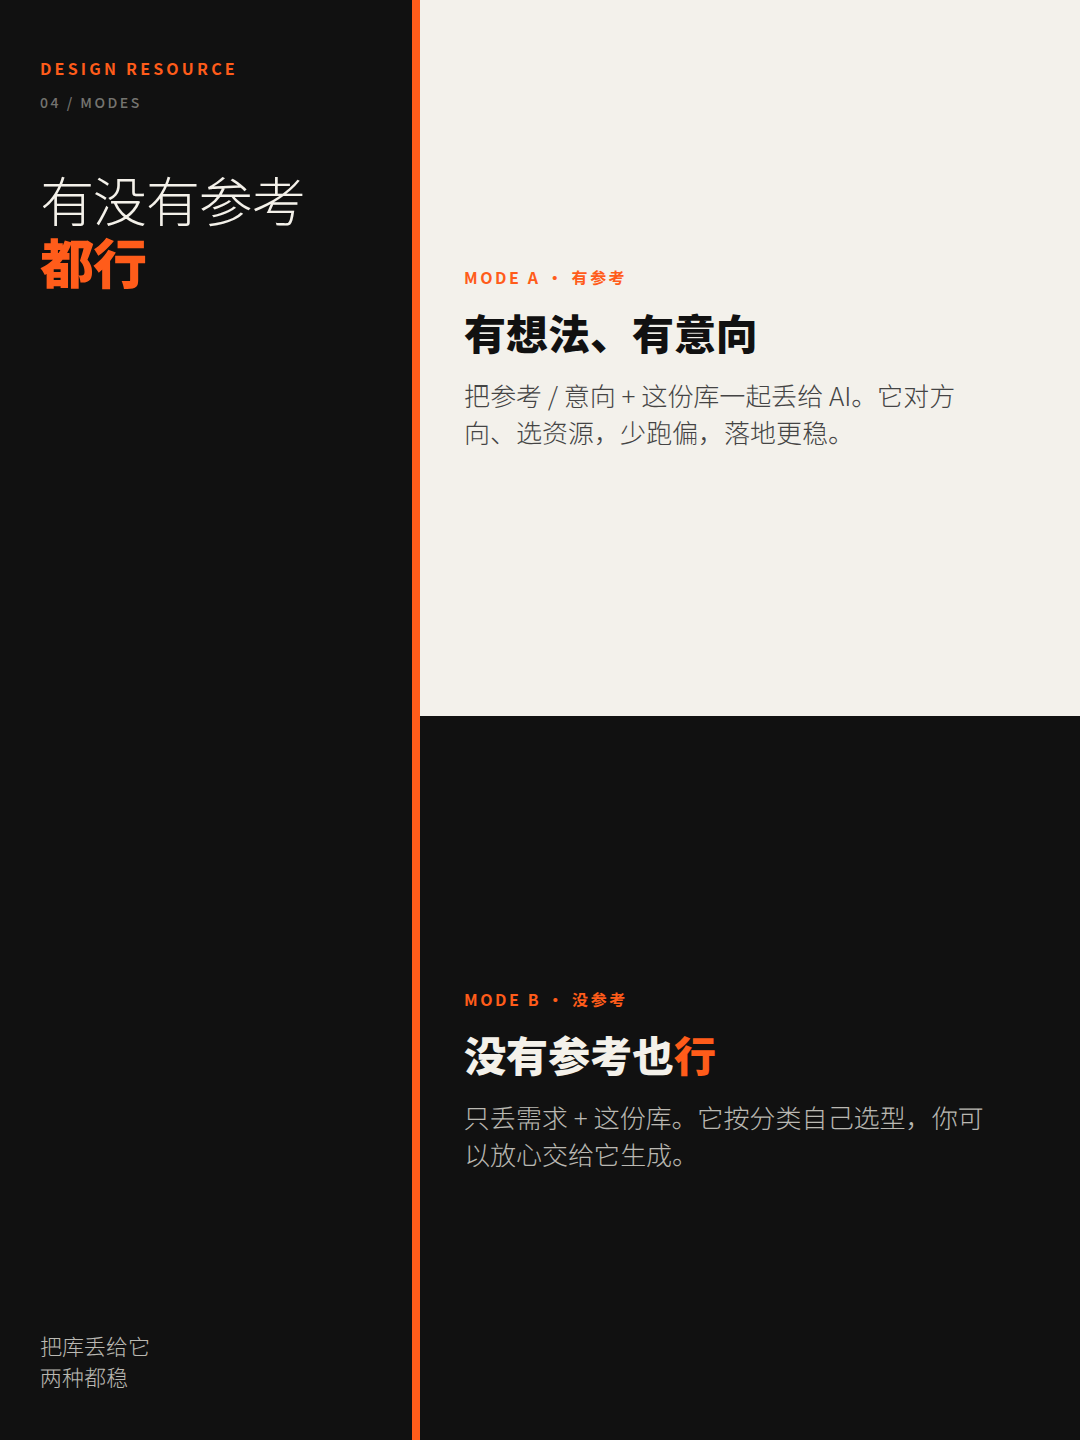
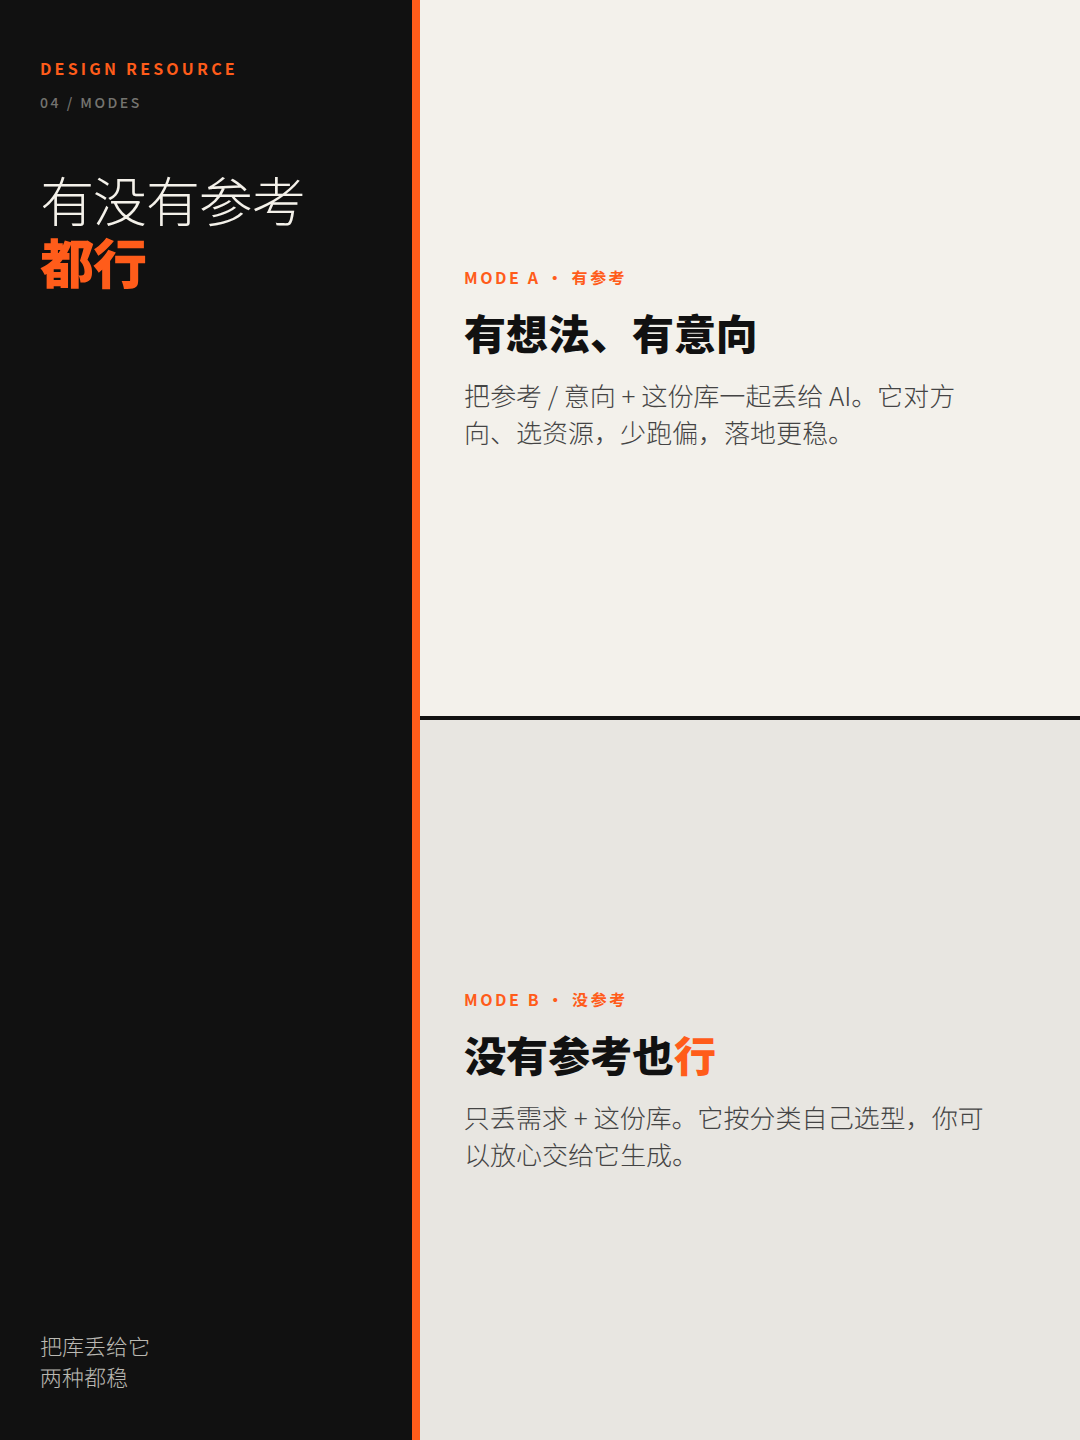
fix: make XHS card 04 bottom panel light gray

diff --git a/cover-output/hybrid-alt/carousel/index.html b/cover-output/hybrid-alt/carousel/index.html
@@ -218,8 +218,8 @@
       border-bottom: 4px solid #111;
     }
     .scenario.b {
-      background: #111;
-      color: #f4f1ea;
+      background: #e8e6e1;
+      color: #111;
     }
     .scenario .tag {
       font-size: 16px;
@@ -247,7 +247,7 @@
       max-width: 520px;
     }
     .scenario.a p { color: #444; }
-    .scenario.b p { color: rgba(244,241,234,.75); }
+    .scenario.b p { color: #444; }
 
     .close-well {
       background: #111;